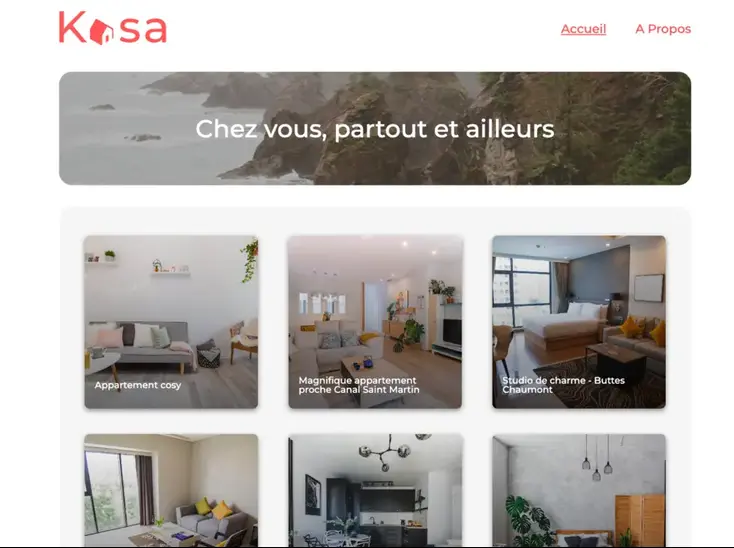
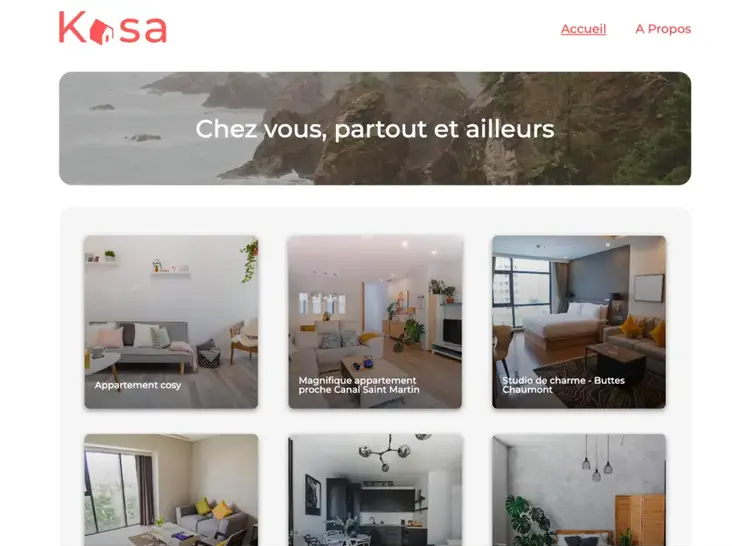
Fix Layout
Update image layout
Update assets
Minor styles changes

diff --git a/src/components/CardSlider/cardslider.scss b/src/components/CardSlider/cardslider.scss
@@ -29,11 +29,11 @@
     display: none; // Chrome, Safari, Edge
   }
 
-  @media screen and (max-width: $breakpoint-1440px) {
-    width: 840px;
-  }
+  // @media screen and (max-width: $breakpoint-1440px) {
+  //   width: 840px;
+  // }
 
-  @media screen and (max-width: $breakpoint-1024px) {
+  @media screen and (max-width: $breakpoint-1440px) {
     width: 420px;
   }
 

diff --git a/src/styles/pages/projectsdetails.scss b/src/styles/pages/projectsdetails.scss
@@ -122,6 +122,7 @@
 .picture-container {
   @include flex-column;
   justify-content: center;
+  align-items: center;
   width: 50%;
   row-gap: $margin-xsmall;
 
@@ -129,8 +130,9 @@
     display: flex;
     justify-content: center;
     column-gap: $margin-xsmall;
+    max-width: 80%;
   }
-
+ 
   .picture-img {
     overflow: hidden;
     border-radius: 10px;

diff --git a/src/components/Contact/contacts.scss b/src/components/Contact/contacts.scss
@@ -72,7 +72,7 @@
       display: inline-flex;
       align-items: center;
       gap: 10px;
-      font-size: $fs-lg;
+      font-size: $fs-md;
 
       @media screen and (max-width: $breakpoint-1024px) {
         font-size: $fs-md;

diff --git a/src/components/Header/header.scss b/src/components/Header/header.scss
@@ -48,7 +48,7 @@
     & a {
       @include link;
       font-family: "Lexend Exa", sans-serif;
-      font-size: $fs-xl;
+      font-size: $fs-lg;
       font-variant: small-caps;
       color: var(--color-primary);
 
